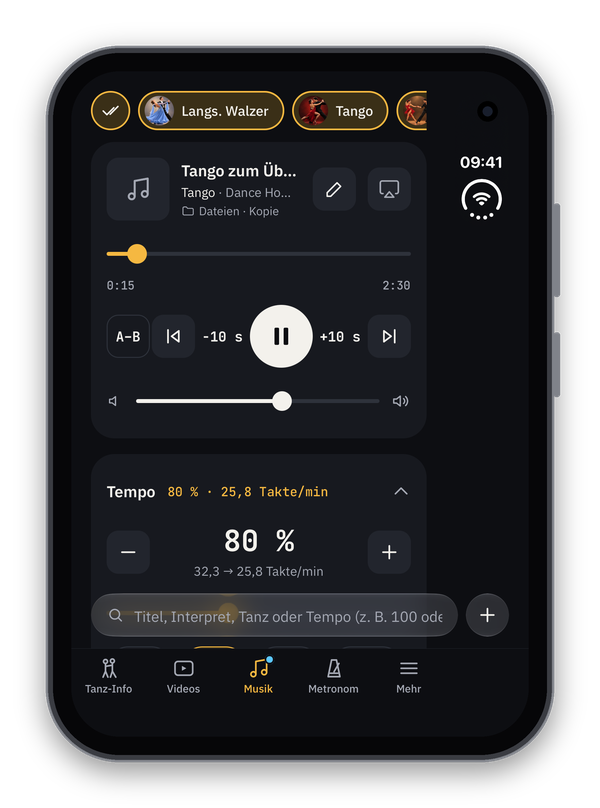
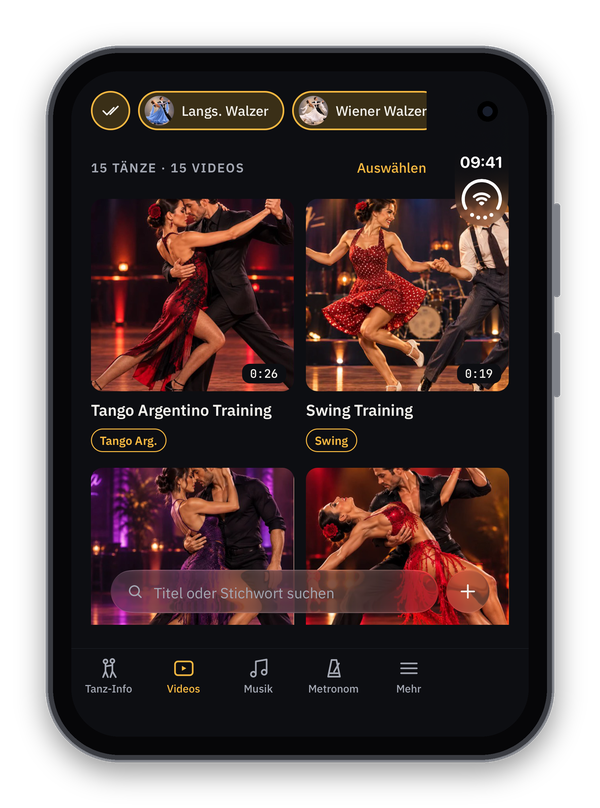
Projektseite: iPhone Duo mit Videoübersicht; Windows und Apple Music entfernt

Changed region(s): [[0.15, 0.0928, 0.87, 0.8663]]

diff --git a/README.md b/README.md
@@ -16,9 +16,9 @@ Dance Home ist kostenlos und bleibt kostenlos. Es gibt keine bezahlte Werbung, k
 </table>
 
 <p align="center">
-<img src="img/5-duo-zu.png" width="210" alt="Musik auf dem iPhone Duo, zugeklappt">&nbsp;&nbsp;
-<img src="img/6-duo-auf.png" width="460" alt="Musik auf dem iPhone Duo, aufgeklappt"><br>
-<sub>iPhone Duo: Musik zugeklappt und aufgeklappt</sub>
+<img src="img/5-duo-zu.png" width="210" alt="Videoübersicht auf dem iPhone Duo, zugeklappt">&nbsp;&nbsp;
+<img src="img/6-duo-auf.png" width="460" alt="Videoübersicht auf dem iPhone Duo, aufgeklappt"><br>
+<sub>iPhone Duo: zugeklappt 2 Spalten, aufgeklappt 4 Spalten Videos</sub>
 </p>
 
 ## Was Dance Home kann
@@ -39,14 +39,14 @@ Dance Home ist kostenlos und bleibt kostenlos. Es gibt keine bezahlte Werbung, k
 - Deutlich hörbare Eins und einstellbare Töne; läuft auch im Hintergrund weiter.
 
 ### Musik
-- Eigene Dateien, Musik-Mediathek und Apple Music.
+- Eigene Dateien und die Musik-Mediathek.
 - **Musik langsamer machen, ohne dass sie tiefer klingt:** 70 %, 80 %, 90 % oder ein Zieltempo in Takten pro Minute – ideal zum Einüben neuer Figuren. Dazu Playlisten, A–B-Schleife und Suche nach Tempo.
 
 ### Überall dabei
 - **Sprachsteuerung:** „Spiele Walzer in Dance Home“ mit Siri bzw. dem Android-Assistenten.
 - **Tonausgabe:** über AirPlay, Bluetooth oder das Gerät.
 - **iCloud-Sync** (optional, ab Werk aus): deine Bibliothek auf allen eigenen Geräten.
-- **Plattformen:** iPhone, iPad, Android, Mac und Windows (als installierbare Web-App).
+- **Plattformen:** iPhone, iPad, Android und Mac.
 - Deutsch und Englisch, heller und dunkler Farbstil.
 
 ## Datenschutz

diff --git a/en/README.md b/en/README.md
@@ -16,9 +16,9 @@ Dance Home is free and will remain free. There is no paid advertising, no in-app
 </table>
 
 <p align="center">
-<img src="../img/5-duo-zu.png" width="210" alt="Music on iPhone Duo, folded">&nbsp;&nbsp;
-<img src="../img/6-duo-auf.png" width="460" alt="Music on iPhone Duo, unfolded"><br>
-<sub>iPhone Duo: music folded and unfolded</sub>
+<img src="../img/5-duo-zu.png" width="210" alt="Video overview on iPhone Duo, folded">&nbsp;&nbsp;
+<img src="../img/6-duo-auf.png" width="460" alt="Video overview on iPhone Duo, unfolded"><br>
+<sub>iPhone Duo: 2 columns of videos folded, 4 unfolded</sub>
 </p>
 
 _The screenshots show the German version in the dark style._
@@ -41,14 +41,14 @@ _The screenshots show the German version in the dark style._
 - A clearly audible one and adjustable tones; keeps running in the background.
 
 ### Music
-- Your own files, music library and Apple Music.
+- Your own files and your music library.
 - **Slow the music down without making it sound lower:** 70 %, 80 %, 90 % or a target tempo in bars per minute – ideal for learning new figures. Plus playlists, A–B loop and search by tempo.
 
 ### Everywhere
 - **Voice control:** “Play waltz in Dance Home” with Siri or the Android assistant.
 - **Sound output:** via AirPlay, Bluetooth or the device.
 - **iCloud sync** (optional, off by default): your library on all your own devices.
-- **Platforms:** iPhone, iPad, Android, Mac and Windows (as an installable web app).
+- **Platforms:** iPhone, iPad, Android and Mac.
 - German and English, light and dark style.
 
 ## Privacy
